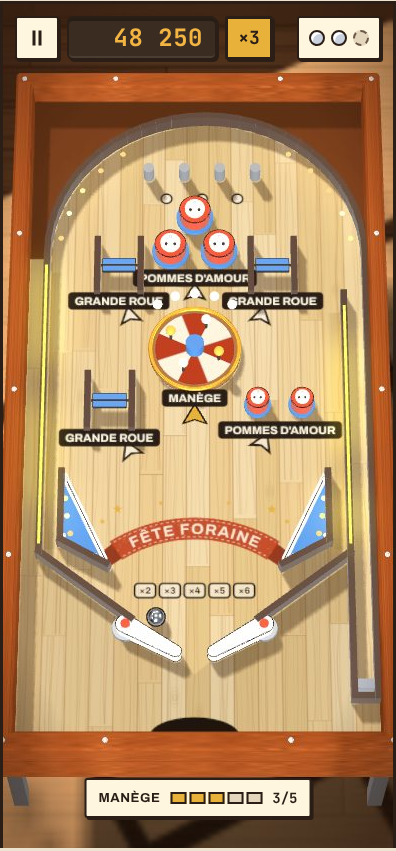
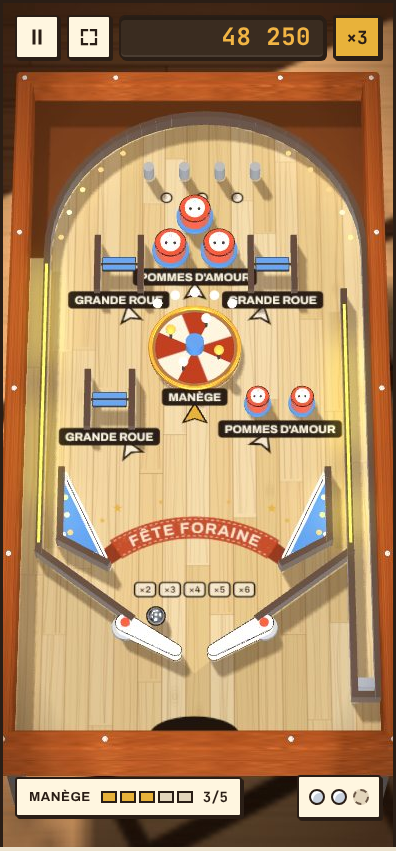
Lot PB5a : HUD portrait avec le plein écran (décision de Nathan), décisions inscrites au README
Constat noté pour un lot de plateforme : Blocks (kit) n'a pas le plein
écran dans son HUD, et basculerPleinEcran verrouille le paysage.

Claude-Session: https://claude.ai/code/session_012eMWFzgy7c9r3avmVvwphC

diff --git a/docs/pinball/maquettes/pinball-hud-portrait.html b/docs/pinball/maquettes/pinball-hud-portrait.html
@@ -60,8 +60,8 @@ h1{font:400 24px/1.1 var(--dj-police-marque);margin:0 0 6px}
 <body>
 <div style="padding:24px 24px 32px;width:1300px">
 <h1>Pinball — le HUD en portrait (390 × 844)</h1>
-<p class="sous">Sur la vraie table du jeu (Fête foraine, rendu haute qualité, HUD actuel masqué ; la caméra cadre déjà la table sur toute la hauteur). Tout le HUD tient dans les deux bandes que le meuble laisse libres : en haut, pause · score · multiplicateur · billes ; en bas, la mission. <b>Rien ne touche le plateau de jeu.</b> Afficheur encastré de la charte (§ 5), plaques à bordure 2 px et ombre nette 2 px (§ 9).</p>
-<div style="display:grid;grid-template-columns:repeat(3,396px);gap:28px;align-items:start"><div><div class="ecran" id="avant" style="width:390px;height:844px;background-image:url(fonds/portrait-avant.jpg)"><button class="btn" style="left:12px;top:12px" aria-label="Pause"><svg width="20" height="20" viewBox="0 0 20 20" aria-hidden="true"><path d="M7 4v12M13 4v12" stroke="currentColor" stroke-width="3" stroke-linecap="square"/></svg></button><div style="left:64px;top:12px;width:150px"><div class="afficheur" aria-label="Score"><span class="chiffres">0</span></div></div><div style="left:222px;top:12px"><div class="mult" aria-label="Multiplicateur ×1">×1</div></div><div style="right:12px;top:12px"><div class="billes" role="img" aria-label="Billes : 3"><span class="b"></span><span class="b"></span><span class="b"></span></div></div><div style="left:50%;top:66px;transform:translateX(-50%)"><div class="aide">Maintiens, puis relâche pour lancer</div></div><div style="left:50%;bottom:30px;transform:translateX(-50%)"><div class="mission"><span class="mnom">Manège</span><span class="jauge"><i></i><i></i><i></i><i></i><i></i></span><span class="mval">0/5</span></div></div></div><p class="legende"><b>1. Avant le lancer</b><br>Score 0, ×1 en papier, trois billes. L’aide d’une ligne (sur le haut du meuble, pas sur la table) part au premier lancer. La mission attend, jauge vide.</p></div><div><div class="ecran" id="cours" style="width:390px;height:844px;background-image:url(fonds/portrait-cours.jpg)"><button class="btn" style="left:12px;top:12px" aria-label="Pause"><svg width="20" height="20" viewBox="0 0 20 20" aria-hidden="true"><path d="M7 4v12M13 4v12" stroke="currentColor" stroke-width="3" stroke-linecap="square"/></svg></button><div style="left:64px;top:12px;width:150px"><div class="afficheur" aria-label="Score"><span class="chiffres">48 250</span></div></div><div style="left:222px;top:12px"><div class="mult haut" aria-label="Multiplicateur ×3">×3</div></div><div style="right:12px;top:12px"><div class="billes" role="img" aria-label="Billes : 2"><span class="b"></span><span class="b"></span><span class="b perdue"></span></div></div><div style="left:50%;bottom:30px;transform:translateX(-50%)"><div class="mission"><span class="mnom">Manège</span><span class="jauge"><i class="on"></i><i class="on"></i><i class="on"></i><i></i><i></i></span><span class="mval">3/5</span></div></div></div><p class="legende"><b>2. En cours, ×3</b><br>Le multiplicateur passe en moutarde dès ×2 (bordure 3 px) ; une bille perdue devient un rond en pointillés. Jauge : 3 tours de manège sur 5.</p></div><div><div class="ecran" id="mission" style="width:390px;height:844px;background-image:url(fonds/portrait-mission.jpg)"><button class="btn" style="left:12px;top:12px" aria-label="Pause"><svg width="20" height="20" viewBox="0 0 20 20" aria-hidden="true"><path d="M7 4v12M13 4v12" stroke="currentColor" stroke-width="3" stroke-linecap="square"/></svg></button><div style="left:64px;top:12px;width:150px"><div class="afficheur" aria-label="Score"><span class="chiffres">+10 000</span></div></div><div style="left:222px;top:12px"><div class="mult haut" aria-label="Multiplicateur ×4">×4</div></div><div style="right:12px;top:12px"><div class="billes" role="img" aria-label="Billes : 2"><span class="b"></span><span class="b"></span><span class="b perdue"></span></div></div><div style="left:50%;bottom:30px;transform:translateX(-50%)"><div class="mission reussie" role="status"><span class="mnom">Mission réussie</span><span class="jauge"><i class="on"></i><i class="on"></i><i class="on"></i><i class="on"></i><i class="on"></i></span><span class="mval">5/5</span></div></div></div><p class="legende"><b>3. Mission réussie</b><br>L’afficheur montre le gain (« +10 000 ») deux secondes, puis revient au score ; la plaque de la mission passe en moutarde et reste ainsi ; le multiplicateur monte d’un cran (×4).</p></div></div>
+<p class="sous">Sur la vraie table du jeu (Fête foraine, rendu haute qualité, HUD actuel masqué ; la caméra cadre déjà la table sur toute la hauteur). Tout le HUD tient dans les deux bandes que le meuble laisse libres : en haut, pause · plein écran · score · multiplicateur ; en bas, la mission et les billes (plaques sans toucher : le doigt joue les batteurs). Sur iPhone, sans plein écran de page, le bouton ouvre l’astuce « Sur l’écran d’accueil » du socle. <b>Rien ne touche le plateau de jeu.</b> Afficheur encastré de la charte (§ 5), plaques à bordure 2 px et ombre nette 2 px (§ 9).</p>
+<div style="display:grid;grid-template-columns:repeat(3,396px);gap:28px;align-items:start"><div><div class="ecran" id="avant" style="width:390px;height:844px;background-image:url(fonds/portrait-avant.jpg)"><button class="btn" style="left:12px;top:12px" aria-label="Pause"><svg width="20" height="20" viewBox="0 0 20 20" aria-hidden="true"><path d="M7 4v12M13 4v12" stroke="currentColor" stroke-width="3" stroke-linecap="square"/></svg></button><button class="btn" style="left:64px;top:12px" aria-label="Plein écran"><svg width="20" height="20" viewBox="0 0 20 20" aria-hidden="true"><path d="M3 8V3h5M12 3h5v5M17 12v5h-5M8 17H3v-5" fill="none" stroke="currentColor" stroke-width="2.25" stroke-linecap="square"/></svg></button><div style="left:116px;top:12px;width:206px"><div class="afficheur" aria-label="Score"><span class="chiffres">0</span></div></div><div style="right:12px;top:12px"><div class="mult" aria-label="Multiplicateur ×1">×1</div></div><div style="left:50%;top:66px;transform:translateX(-50%)"><div class="aide">Maintiens, puis relâche pour lancer</div></div><div style="left:12px;bottom:30px"><div class="mission"><span class="mnom">Manège</span><span class="jauge"><i></i><i></i><i></i><i></i><i></i></span><span class="mval">0/5</span></div></div><div style="right:12px;bottom:28px"><div class="billes" role="img" aria-label="Billes : 3"><span class="b"></span><span class="b"></span><span class="b"></span></div></div></div><p class="legende"><b>1. Avant le lancer</b><br>Pause et plein écran à gauche, score, ×1 en papier ; en bas, la mission et les trois billes. L’aide d’une ligne (sur le haut du meuble, pas sur la table) part au premier lancer. La mission attend, jauge vide.</p></div><div><div class="ecran" id="cours" style="width:390px;height:844px;background-image:url(fonds/portrait-cours.jpg)"><button class="btn" style="left:12px;top:12px" aria-label="Pause"><svg width="20" height="20" viewBox="0 0 20 20" aria-hidden="true"><path d="M7 4v12M13 4v12" stroke="currentColor" stroke-width="3" stroke-linecap="square"/></svg></button><button class="btn" style="left:64px;top:12px" aria-label="Plein écran"><svg width="20" height="20" viewBox="0 0 20 20" aria-hidden="true"><path d="M3 8V3h5M12 3h5v5M17 12v5h-5M8 17H3v-5" fill="none" stroke="currentColor" stroke-width="2.25" stroke-linecap="square"/></svg></button><div style="left:116px;top:12px;width:206px"><div class="afficheur" aria-label="Score"><span class="chiffres">48 250</span></div></div><div style="right:12px;top:12px"><div class="mult haut" aria-label="Multiplicateur ×3">×3</div></div><div style="left:12px;bottom:30px"><div class="mission"><span class="mnom">Manège</span><span class="jauge"><i class="on"></i><i class="on"></i><i class="on"></i><i></i><i></i></span><span class="mval">3/5</span></div></div><div style="right:12px;bottom:28px"><div class="billes" role="img" aria-label="Billes : 2"><span class="b"></span><span class="b"></span><span class="b perdue"></span></div></div></div><p class="legende"><b>2. En cours, ×3</b><br>Le multiplicateur passe en moutarde dès ×2 (bordure 3 px) ; une bille perdue devient un rond en pointillés. Jauge : 3 tours de manège sur 5.</p></div><div><div class="ecran" id="mission" style="width:390px;height:844px;background-image:url(fonds/portrait-mission.jpg)"><button class="btn" style="left:12px;top:12px" aria-label="Pause"><svg width="20" height="20" viewBox="0 0 20 20" aria-hidden="true"><path d="M7 4v12M13 4v12" stroke="currentColor" stroke-width="3" stroke-linecap="square"/></svg></button><button class="btn" style="left:64px;top:12px" aria-label="Plein écran"><svg width="20" height="20" viewBox="0 0 20 20" aria-hidden="true"><path d="M3 8V3h5M12 3h5v5M17 12v5h-5M8 17H3v-5" fill="none" stroke="currentColor" stroke-width="2.25" stroke-linecap="square"/></svg></button><div style="left:116px;top:12px;width:206px"><div class="afficheur" aria-label="Score"><span class="chiffres">+10 000</span></div></div><div style="right:12px;top:12px"><div class="mult haut" aria-label="Multiplicateur ×4">×4</div></div><div style="left:12px;bottom:30px"><div class="mission reussie" role="status"><span class="mnom">Manège</span><span class="jauge"><i class="on"></i><i class="on"></i><i class="on"></i><i class="on"></i><i class="on"></i></span><span class="mnom">Réussie</span></div></div><div style="right:12px;bottom:28px"><div class="billes" role="img" aria-label="Billes : 2"><span class="b"></span><span class="b"></span><span class="b perdue"></span></div></div></div><p class="legende"><b>3. Mission réussie</b><br>L’afficheur montre le gain (« +10 000 ») deux secondes, puis revient au score ; la plaque de la mission passe en moutarde (« Réussie ») et reste ainsi ; le multiplicateur monte d’un cran (×4).</p></div></div>
 </div>
 </body>
 </html>

diff --git a/docs/pinball/maquettes/README.md b/docs/pinball/maquettes/README.md
@@ -1,10 +1,10 @@
 # Lot PB5a — maquettes de l'identité, du HUD et de l'accueil de Pinball
 
-**État : identité choisie par Nathan le 16/11/2026 — étiquette B (« Néon ») et illustration 3 (« la table »).** Le HUD, le panneau « Aujourd'hui » et l'écran de fin attendent encore sa réponse (questions en bas). Ce lot n'écrit que dans `docs/pinball/maquettes/` : aucun code de jeu ni d'interface. « Pour les joueurs » : `rien`.
+**État : tout est validé par Nathan le 16/11/2026** — étiquette B (« Néon »), illustration 3 (« la table »), HUD (avec **le plein écran en vue en portrait aussi**), panneau « Aujourd'hui » activé, écran de fin. Ce lot n'écrit que dans `docs/pinball/maquettes/` : aucun code de jeu ni d'interface. « Pour les joueurs » : `rien`.
 
 ## Le choix, à reporter dans la fiche au PB5b
 - `etiquette` : `fond` `#F6A2D8`, `coque` `#962170`, `police` `"Barlow Condensed", "Archivo", sans-serif` (titres et boutons du jeu en 800 italique, comme Track).
-- `identite` : `police` `Barlow Condensed`, `motif` `rayures`, `illustration` `apps/pinball/public/illustration.svg` (copie de `illustration-3-la-table.svg`), `aujourdhui` `true` (proposé, à confirmer).
+- `identite` : `police` `Barlow Condensed`, `motif` `rayures`, `illustration` `apps/pinball/public/illustration.svg` (copie de `illustration-3-la-table.svg`), `aujourdhui` `true`.
 - Coût : rien hors des zones du jeu (police hébergée et déjà chargée par le portail, motif existant). L'accueil et la fin (`pinball-accueil.*`, `pinball-fin.*`) sont redessinés avec ce choix.
 
 ## À regarder, dans cet ordre (les PNG s'ouvrent sur le téléphone)
@@ -12,7 +12,7 @@
 |---|---|---|---|
 | 1 | **Étagère** : 3 étiquettes dans la salle d'arcade, à côté de Tower et Rush | `pinball-etagere.png` | `pinball-etagere.html` |
 | 2 | **Illustration** : 3 propositions, en grand et à la taille du portail | `pinball-illustration.png` | `pinball-illustration.html` |
-| 3 | **HUD portrait** 390 × 844, 3 états sur la vraie table | `pinball-hud-portrait.png` (les 3) ; `pinball-hud-portrait-1-avant.png`, `-2-en-cours.png`, `-3-mission-reussie.png` | `pinball-hud-portrait.html` |
+| 3 | **HUD portrait** 390 × 844, 3 états sur la vraie table, plein écran compris | `pinball-hud-portrait.png` (les 3) ; `pinball-hud-portrait-1-avant.png`, `-2-en-cours.png`, `-3-mission-reussie.png` | `pinball-hud-portrait.html` |
 | 4 | HUD paysage 844 × 390 et bureau 1440 × 900, en cours | `pinball-hud-paysage.png`, `pinball-hud-bureau.png` | `.html` du même nom |
 | 5 | Accueil et panneau « Aujourd'hui » (téléphone et ordinateur) | `pinball-accueil.png` | `pinball-accueil.html` |
 | 6 | Écran de fin | `pinball-fin.png` | `pinball-fin.html` |
@@ -35,7 +35,7 @@ Pages autonomes (CSS et jetons de `@cdj/ui` recopiés, polices du dépôt ; Righ
 **1 « Le tir »** (la bille part du batteur droit) · **2 « La bille inquiète »** (la bille a des yeux, elle regarde le trou entre les batteurs) · **3 « La table »** (meuble en arche, bumper à yeux, bille, batteurs). Couleurs : encre, papier, terre cuite, moutarde, bronze (le bois) et l'acier `#C9D2DE` (déjà dans l'illustration de Rush). Fichiers SVG prêts à copier en `apps/pinball/public/illustration.svg`.
 
 ## 3. Le HUD
-- **Portrait** : la caméra cadre déjà toute la table ; le meuble laisse une bande libre en haut et en bas. **Tout le HUD y tient, rien ne touche le plateau** : en haut, pause (44 px) · score dans **l'afficheur encastré** de la charte (fond `--dj-ecran`, chiffres ambre JetBrains Mono : l'afficheur d'un flipper) · multiplicateur (papier à ×1, **moutarde dès ×2**) · billes (rondes en acier, une perdue = rond en pointillés) ; en bas, **la mission** (nom, jauge à cases, « 3/5 »).
+- **Portrait** : la caméra cadre déjà toute la table ; le meuble laisse une bande libre en haut et en bas. **Tout le HUD y tient, rien ne touche le plateau** : en haut, pause et **plein écran** (44 px chacun) · score dans **l'afficheur encastré** de la charte (fond `--dj-ecran`, chiffres ambre JetBrains Mono : l'afficheur d'un flipper) · multiplicateur (papier à ×1, **moutarde dès ×2**) ; en bas, **la mission** (nom, jauge à cases, « 3/5 ») et les billes (rondes en acier, une perdue = rond en pointillés), plaques qui ne prennent aucun toucher (le doigt y joue les batteurs).
 - **Avant le lancer** : une aide d'une ligne sur le haut du meuble, qui part au premier lancer. **Mission réussie** : l'afficheur montre « +10 000 » deux secondes, la plaque de la mission passe en moutarde (et le reste), le multiplicateur monte.
 - **Paysage et bureau** : tout dans la marge de gauche (et la mission à droite sur bureau) ; plein écran en haut à droite ; sur bureau, l'aide du clavier en bas à gauche à la première partie.
 
@@ -54,14 +54,18 @@ Score de la partie, ce qu'il vaut (« Nouveau record » / « Pas mieux que ton r
 **Vérifié** : les sept pages se rendent sans erreur ni ressource manquante, toutes les polices chargées ; captures regardées (étagère, illustrations, HUD portrait, paysage, bureau, accueil, fin) ; tous les liens et boutons font au moins 44 × 44 (mesuré dans la page) ; aucun émoji, aucune ombre floue, aucun dégradé (motifs et voile seulement, arrêts francs) ; couleurs : jetons recopiés de `@cdj/ui`, plus les teintes proposées et l'acier de la bille ; contrastes ci-dessus, et encre-douce sur crème-2 4,7:1, ambre sur l'afficheur 7,3:1, encre sur bronze 4,7:1.
 **Non vérifié** : le rendu sur un vrai téléphone et les marges de sécurité (encoche, barre d'accueil de l'iPhone) ; les animations (images fixes) ; l'anglais.
 
-## Ce que le PB5b devra faire (à savoir avant de choisir)
+## Le plein écran en portrait (demande de Nathan du 16/11 : Pinball, Tower et Blocks)
+- **Pinball** : bouton en vue en portrait (maquette ci-dessus), en paysage et sur bureau.
+- **Tower** : il est **déjà** en vue en portrait (`apps/tower/src/hud.ts`, deuxième rangée à gauche, charte § 9).
+- **Blocks et tout jeu du kit** : il n'est que dans la pause et la barre de l'accueil (`packages/kit/src/jeu/partie.ts`), pas dans le HUD de la partie. À ajouter **dans le kit** (zone partagée).
+- **Défaut commun** : `basculerPleinEcran` (`packages/ui/src/pleinEcran.ts`) **verrouille l'écran en paysage** à l'entrée (« les deux jeux s'y jouent », écrit pour Track et Jump). Sur Android, un appui en portrait fait donc tourner Pinball, Tower ou Blocks en paysage. Il faut verrouiller l'orientation du moment, ou laisser chaque jeu la choisir. Sur iPhone, rien ne change : pas de plein écran de page, le bouton ouvre l'astuce « Sur l'écran d'accueil ».
+- **Proposition : un lot de plateforme** (`packages/ui` et `packages/kit`, hors des zones de Pinball) pour ces deux points, avant le PB5b ou avec lui. Ce lot ne les fait pas.
+
+## Ce que le PB5b devra faire
 - **Le HUD passe en surimpression** (`DefinitionJeu.hud: "surimpression"` du kit, lot PG1) au lieu de la barre crème actuelle, et **la caméra cadre la table entre les deux bandes**, marges de sécurité comprises (avec l'encoche d'un iPhone, la bande du haut descend d'environ 47 px : la table doit lui laisser cette place).
 - **L'aperçu de la table** se dessine avec le rendu à plat (`dessin.ts`) dans un petit canvas, **chargé à la demande** après l'accueil : jamais three.js ni le rendu au premier chargement. Son poids est à mesurer (`pinball.jsCss`).
 - **Textes à ajouter** au catalogue du jeu, fr et en : `aujourdhui.mission`, `aujourdhui.table`, `aujourdhui.medailles`, `hud.aide.lancer` (« Maintiens, puis relâche pour lancer »), `hud.mission.reussie`, `fin.meilleure` (« Ta meilleure partie du jour »), `fin.meilleure.compte` (« c'est elle qui compte »), et les noms lus (`hud.score.aria`, `hud.mult.aria`, `hud.billes.aria`).
 - Rappel (déjà au `docs/pinball/consignes.md`) : les mentions légales doivent nommer les clés `pinball:*` avant que le catalogue perde son dernier « À remplacer » — un lot de plateforme.
 
-## Questions pour Nathan
-1. ~~Étiquette~~ : **B** (16/11). ~~Illustration~~ : **3** (16/11).
-2. Le panneau « Aujourd'hui » activé, et l'écran de fin : d'accord ?
-3. Le HUD portrait te va-t-il ? En particulier : **la mission en bas** (loin du score) ; **les billes en ronds** plutôt qu'un chiffre « Billes : 2 ».
-4. Le plein écran : en paysage et sur bureau seulement (comme proposé), ou aussi en portrait ?
+## Décisions de Nathan (16/11/2026)
+Étiquette **B** · illustration **3** · HUD portrait validé, **avec le plein écran en vue en portrait** (aussi voulu pour Tower et Blocks : voir plus haut) · panneau « Aujourd'hui » activé · écran de fin validé.
